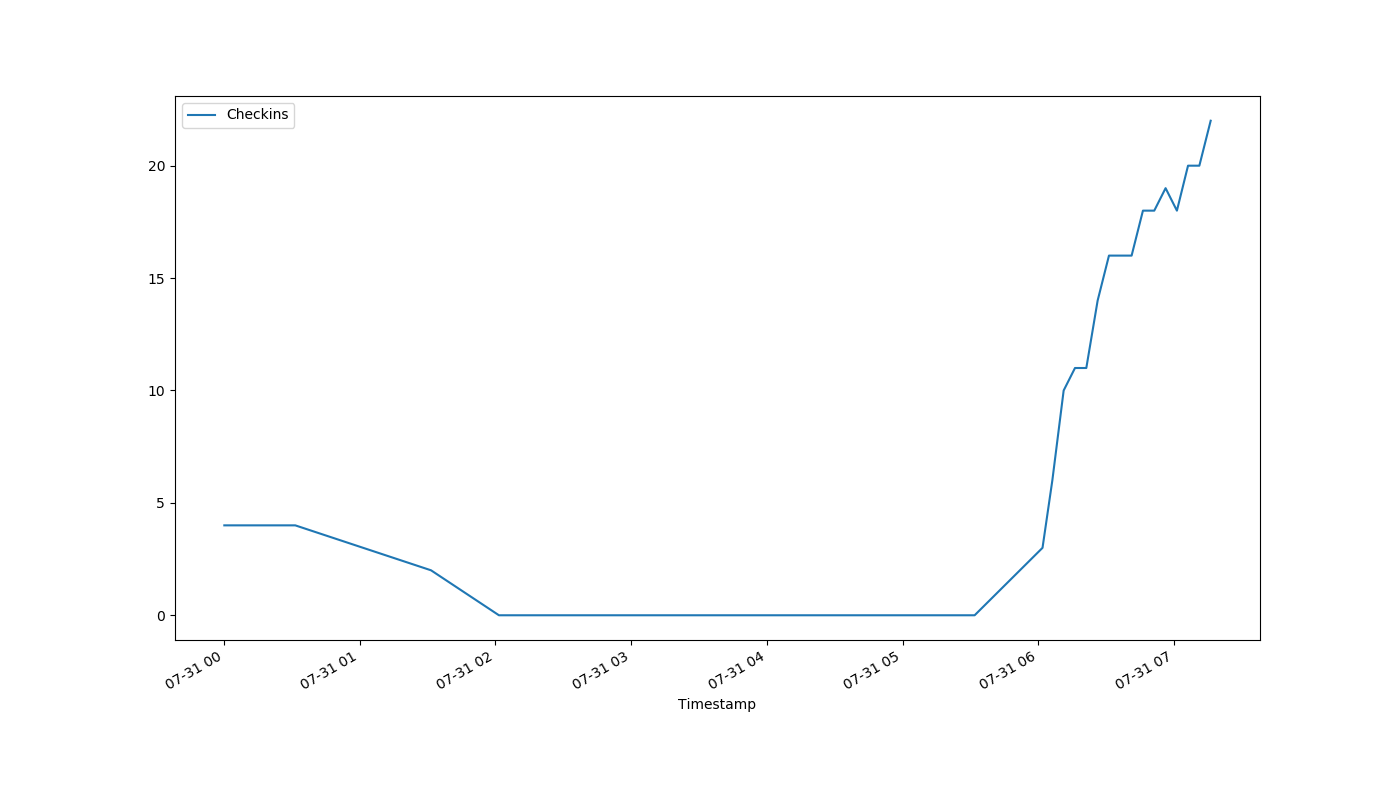
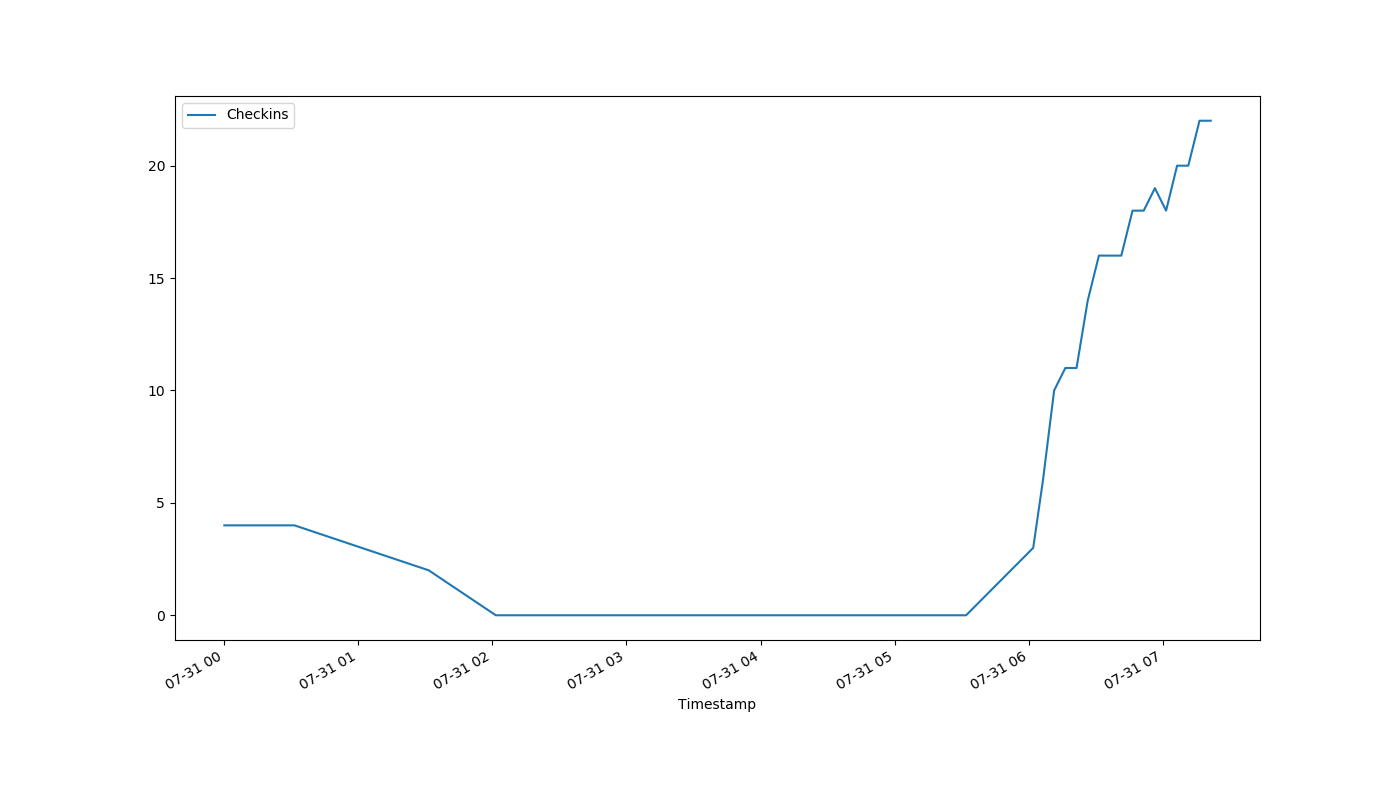
auto-Jul-31-07:22:31

diff --git a/index.html b/index.html
@@ -1,1 +1,1 @@
-<!DOCTYPE html><html><head><meta http-equiv="refresh" content="30"><link rel='stylesheet' href='holmcurrent.css'></head><body><p id='count'>22</p><div id='graph-wrap'><img id='graph' src='holmgraph-Jul-31.png'></div><p id='updated'>Last updated 07:17:04 / 07:16:08</p></body></html>
+<!DOCTYPE html><html><head><meta http-equiv="refresh" content="30"><link rel='stylesheet' href='holmcurrent.css'></head><body><p id='count'>22</p><div id='graph-wrap'><img id='graph' src='holmgraph-Jul-31.png'></div><p id='updated'>Last updated 07:22:04 / 07:21:08</p></body></html>
